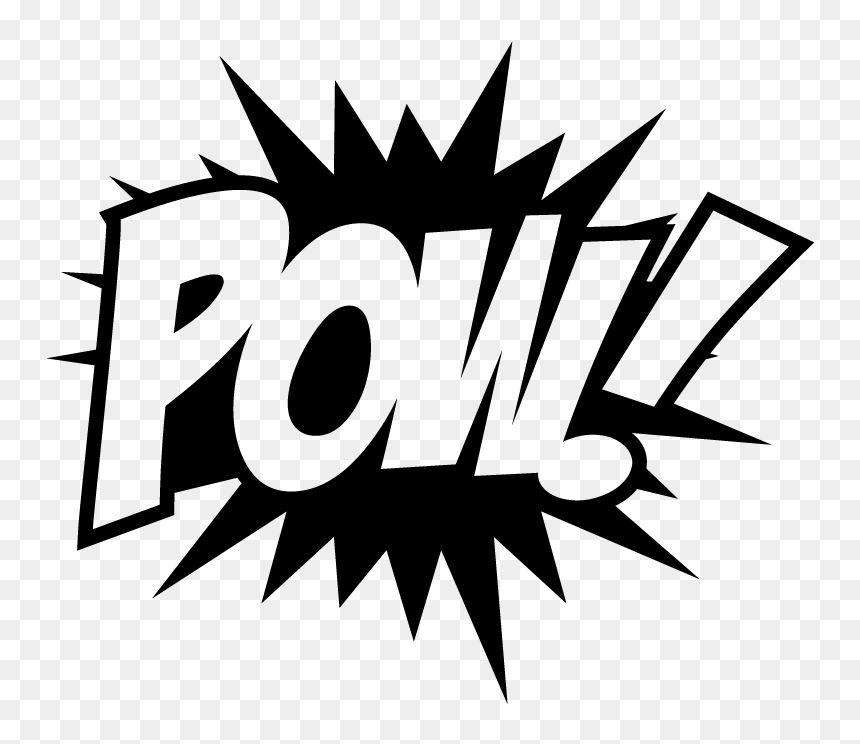
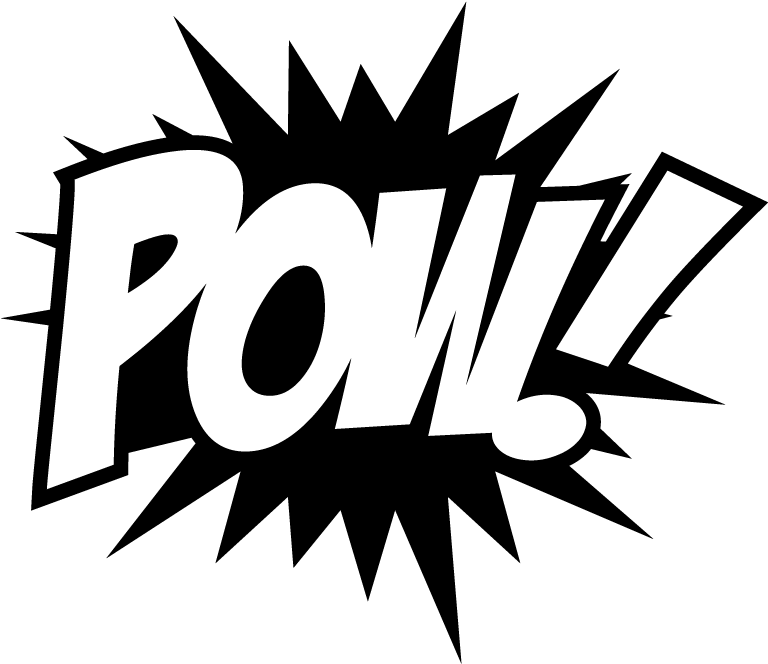
V 1.41 More refined animation

Changed region(s): [[0.0, 0.0, 1.0, 0.994]]

diff --git a/src/main/java/com/example/gachagame/StageController.java b/src/main/java/com/example/gachagame/StageController.java
@@ -3,6 +3,7 @@ package com.example.gachagame;
 import javafx.animation.*;
 import javafx.event.ActionEvent;
 import javafx.fxml.FXML;
+import javafx.scene.control.Button;
 import javafx.scene.image.Image;
 import javafx.scene.image.ImageView;
 import javafx.util.Duration;
@@ -14,6 +15,8 @@ public class StageController {
     private ImageView enemyStickman;
     @FXML
     private ImageView POW;
+    @FXML
+    private Button attackButton;
 
     public static Image redStickman = new Image("RedStickman.png");
     public static Image blueStickman = new Image("BlueStickman.png");
@@ -25,12 +28,26 @@ public class StageController {
     }
 
     private class Timer extends AnimationTimer{
+        public int timing = 0;
         @Override
         public void handle(long l) {
-            POW.setOpacity(POW.getOpacity() - .005);
-            if (POW.getOpacity() == 0){
+            if (timing == 0){
                 stop();
+                attackButton.setDisable(false);
+            }
+
+            else if (timing == 130){
+                POW.setOpacity(0);
+                timing -= 1;
                 System.out.println("OP IS NOW 0");
+            }
+
+            else if (timing == 190){
+                POW.setOpacity(1);
+                timing -= 1;
+            }
+            else {
+                timing -= 1;
             }
         }
 
@@ -46,7 +63,8 @@ public class StageController {
         transition.setCycleCount(2);
         transition.setAutoReverse(true);
         transition.play();
-        POW.setOpacity(1);
+        attackButton.setDisable(true);
+        myTime.timing = 250;
         myTime.start();
 
     }
